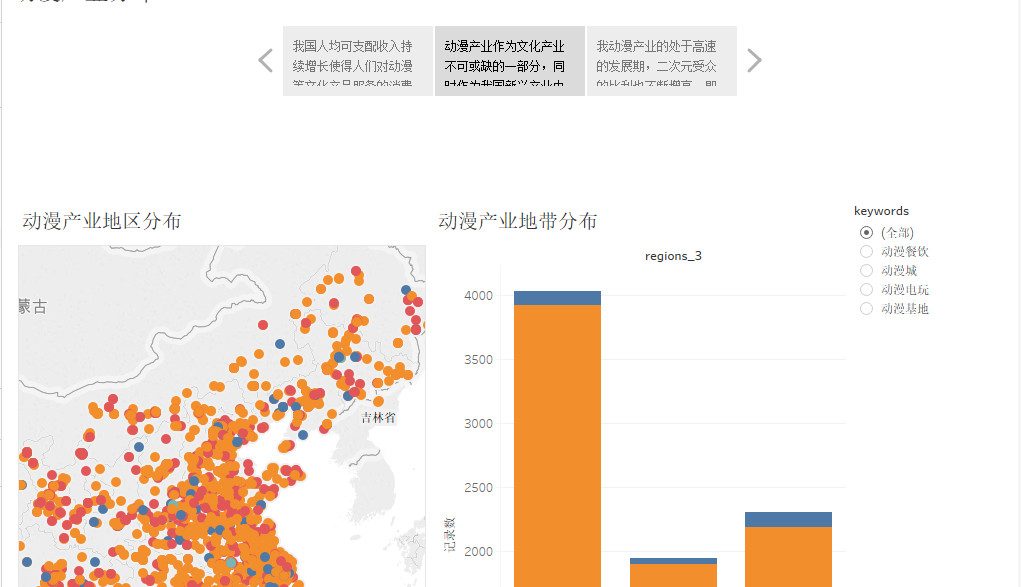
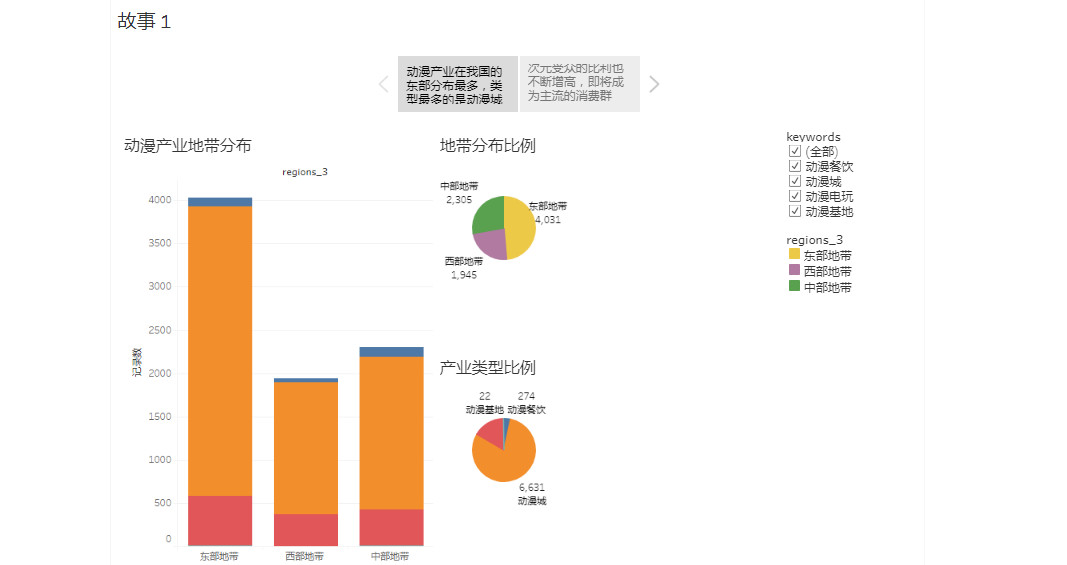
期末可视化作品

diff --git a/_posts/2017-12-31-infovis_final_work.md b/_posts/2017-12-31-infovis_final_work.md
@@ -10,5 +10,5 @@ image:
 ---
 
 
-#### [期末可视化作品](https://public.tableau.com/views/_18078/sheet3?:embed=y&:display_count=yes&publish=yes)
-* [**动漫产业可视化作品**](https://public.tableau.com/views/_18078/sheet3?:embed=y&:display_count=yes&publish=yes)
+#### [期末可视化作品](https://public.tableau.com/views/_18078/1_1?:embed=y&:display_count=yes)
+* [**动漫产业可视化作品**](https://public.tableau.com/views/_18078/1_1?:embed=y&:display_count=yes)
